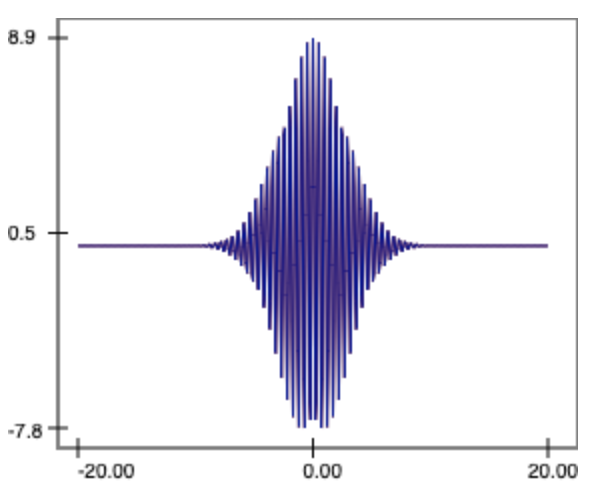
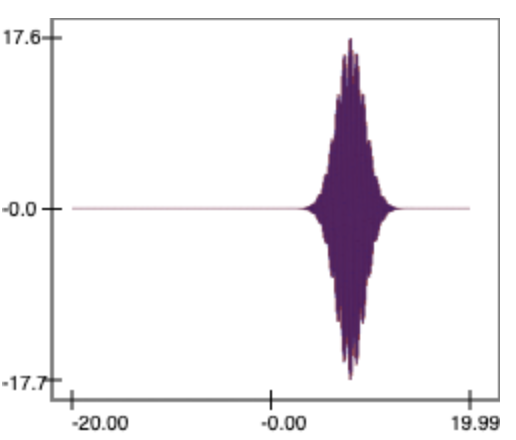
wd

Changed region(s): [[0.0, 0.0295, 0.9922, 1.0]]

diff --git a/physics/wavePacket/sketch.js b/physics/wavePacket/sketch.js
@@ -7,7 +7,6 @@ function draw1() {
         var sets = sw.sweep(pack.packet.bind(pack), -20, 20, .1)
         graph = new Graph(ctx);
         graph.plot(sets[0],sets[1], "rgb(3, 100, 100)");
-        // console.log(sets)
         graph.graph();
 }
 
@@ -17,12 +16,11 @@ function draw2() {
     ctx.clearRect(0, 0, cw, ch);
     var pack = new Packet(45.0, 55.0, kinc1, t1, 50.0, vp01, a1);
     var sw = new Sweep();
-    var sets = sw.sweep(pack.packetRe.bind(pack), -20, 20, .1)
+    var sets = sw.sweep(pack.packetRe.bind(pack), -20, 20, .03)
     graph = new Graph(ctx);
-    // console.log(sets[1]);
-    graph.plot(sets[0],sets[1], "rgb(150, 10, 10)");
-    var sets = sw.sweep(pack.packetRe.bind(pack), -20, 20, .1)
-    graph.plot(sets[0],sets[1], "rgb(10, 10, 150)");
+    graph.plot(sets[0],sets[1], "rgba(150, 10, 10, .5)");
+    var sets = sw.sweep(pack.packetIm.bind(pack), -20, 20, .03)
+    graph.plot(sets[0],sets[1], "rgba(10, 10, 150, .2)");
     graph.graph();
 }
 

diff --git a/physics/wavePacket/index.html b/physics/wavePacket/index.html
@@ -68,7 +68,7 @@
         </div>
         <div class ="button">
           <input type="range" min="1" max="5" value="1" class="slider" id="a" step="1">
-          <label id="alabel"> a = 0.10</label>
+          <label id="alabel"> a = 1.00</label>
         </div>
         <div class ="button">
           <input type="range" min="1" max="5" value="1" class="slider" id="vp0" step="1">
